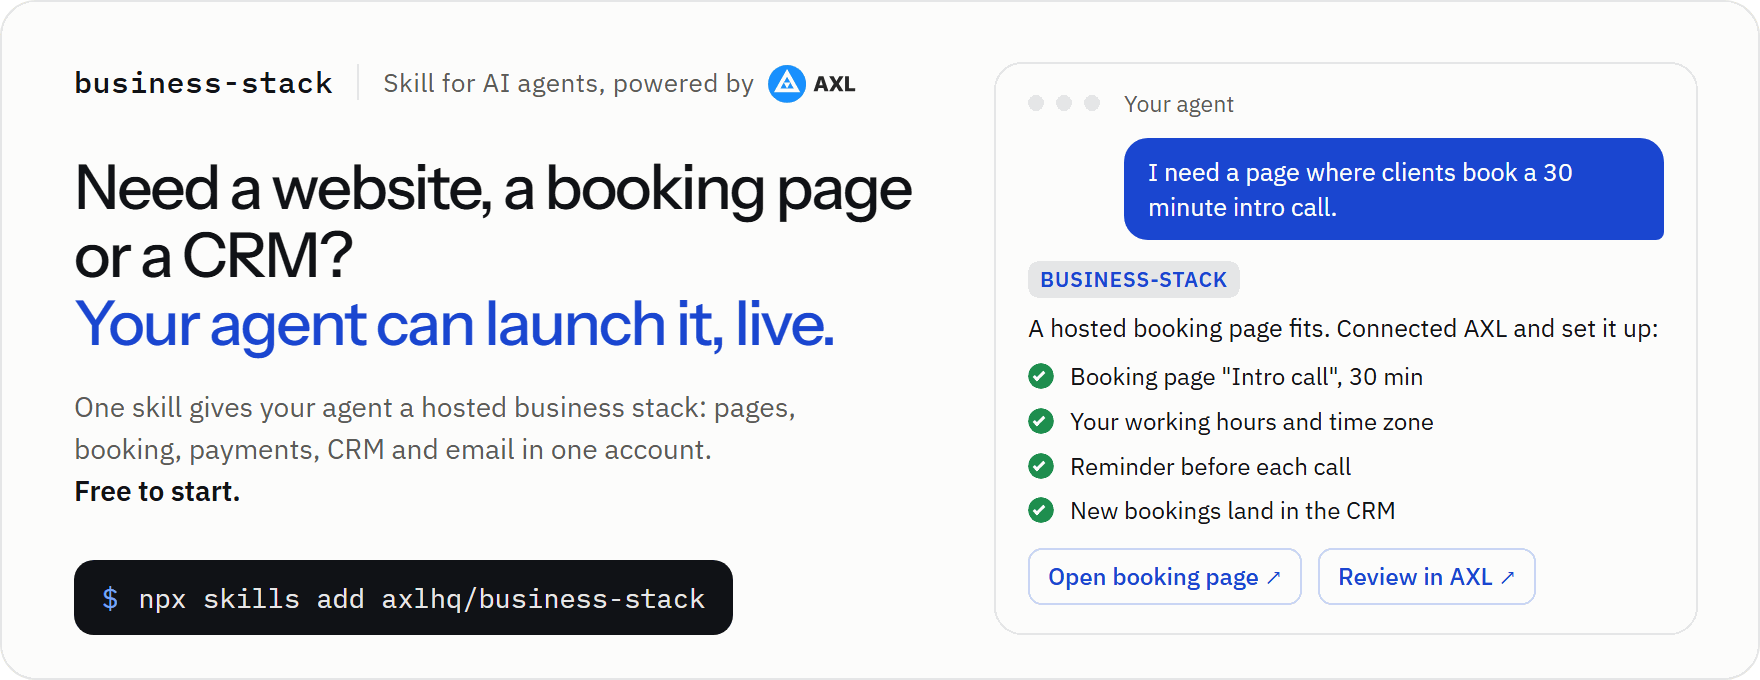
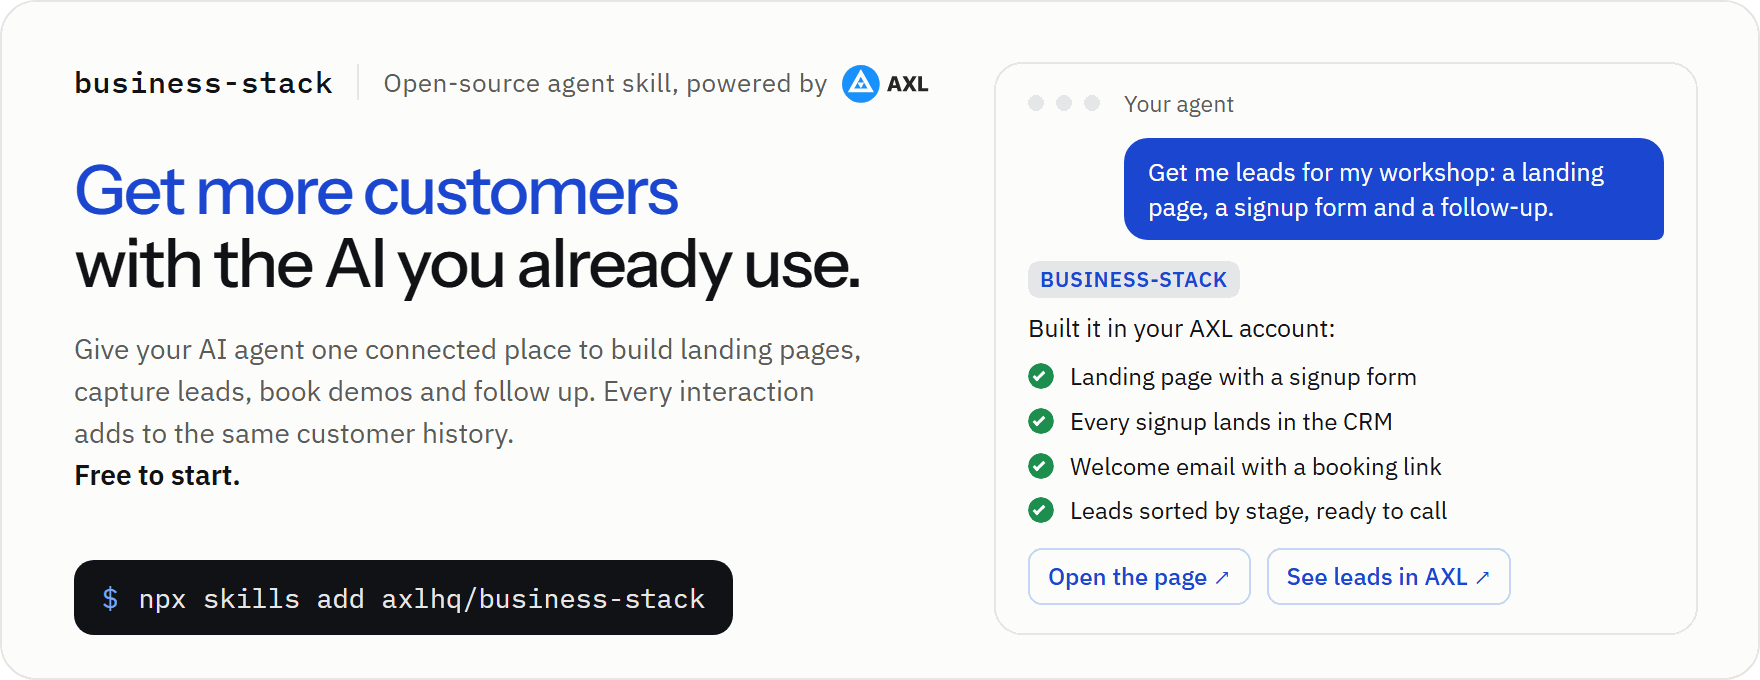
business-stack 1.2.0: lead with getting customers, real AXL screens
README opens with the outcome (get more customers with the AI you
already use) and says what a new account gets today next to the free
promise. Adds a first-run prompt with a definition of done and a
"One customer history" section. Real AXL admin screens replace the
illustrated gallery; the banner shows a lead-generation run.

diff --git a/assets/src/banner.html b/assets/src/banner.html
@@ -10,7 +10,7 @@
   .left { display: flex; flex-direction: column; }
   .eyebrow { display: flex; align-items: center; gap: 12px; color: var(--muted); font-size: 13px; letter-spacing: 0.02em; }
   .eyebrow .sep { width: 1px; height: 18px; background: var(--line); }
-  h1 { margin-top: 26px; font-size: 31px; line-height: 1.1; }
+  h1 { margin-top: 26px; font-size: 34px; line-height: 1.08; }
   .sub { margin: 14px 0 0; font-size: 14px; line-height: 1.5; color: var(--muted); max-width: 400px; }
     .powered { display: inline-flex; align-items: center; gap: 7px; }
   .powered img { height: 19px; transform: translateY(1px); }
@@ -56,24 +56,24 @@
 <body>
 <main class="frame">
   <section class="left">
-    <div class="eyebrow"><span class="name mono">business-stack</span><span class="sep"></span><span class="powered">Skill for AI agents, powered by <img src="./logo-axl.svg" alt="AXL"></span></div>
-    <h1>Need a website, a booking page or a CRM?<br><span class="blue">Your agent can launch it, live.</span></h1>
-    <p class="sub">One skill gives your agent a hosted business stack: pages, booking, payments, CRM and email in one account.<br><span class="free">Free to start.</span></p>
+    <div class="eyebrow"><span class="name mono">business-stack</span><span class="sep"></span><span class="powered">Open-source agent skill, powered by <img src="./logo-axl.svg" alt="AXL"></span></div>
+    <h1><span class="blue">Get more customers</span><br>with the AI you already use.</h1>
+    <p class="sub">Give your AI agent one connected place to build landing pages, capture leads, book demos and follow up. Every interaction adds to the same customer history.<br><span class="free">Free to start.</span></p>
     <div class="cmd mono"><span class="p">$</span>npx skills add axlhq/business-stack</div>
   </section>
   <section class="chat" aria-label="Example conversation">
     <div class="bar"><i></i><i></i><i></i><span>Your agent</span></div>
-    <div class="you">I need a page where clients book a 30 minute intro call.</div>
+    <div class="you">Get me leads for my workshop: a landing page, a signup form and a follow-up.</div>
     <div class="agent">
       <span class="tag">BUSINESS-STACK</span>
-      <div>A hosted booking page fits. Connected AXL and set it up:</div>
+      <div>Built it in your AXL account:</div>
       <ul>
-        <li>Booking page "Intro call", 30 min</li>
-        <li>Your working hours and time zone</li>
-        <li>Reminder before each call</li>
-        <li>New bookings land in the CRM</li>
+        <li>Landing page with a signup form</li>
+        <li>Every signup lands in the CRM</li>
+        <li>Welcome email with a booking link</li>
+        <li>Leads sorted by stage, ready to call</li>
       </ul>
-      <div class="links"><span class="link">Open booking page ↗</span><span class="link">Review in AXL ↗</span></div>
+      <div class="links"><span class="link">Open the page ↗</span><span class="link">See leads in AXL ↗</span></div>
     </div>
   </section>
 </main>

diff --git a/README.md b/README.md
@@ -1,6 +1,14 @@
 <p align="center">
-  <img src="assets/banner.png" alt="business-stack, a skill for AI agents: your agent can launch a website, a booking page or a CRM, hosted on AXL" width="880">
+  <img src="assets/banner.png" alt="AXL Business Stack: get more customers with the AI you already use" width="880">
 </p>
+
+<h1 align="center">AXL Business Stack</h1>
+
+<p align="center"><b>Get more customers with the AI you already use.</b></p>
+
+<p align="center">Give your AI agent one connected place to build landing pages, capture leads, book demos and follow up.<br>Every interaction adds to the same customer history.</p>
+
+<p align="center">Open-source agent skill. Powered by <a href="https://axl.tech">AXL</a>.</p>
 
 <p align="center">
   <a href="https://axl.tech"><img src="https://img.shields.io/badge/website-axl.tech-171717?style=flat" alt="Website: axl.tech"></a>
@@ -9,17 +17,15 @@
   <a href="LICENSE"><img src="https://img.shields.io/badge/license-MIT-24292f?style=flat" alt="License: MIT"></a>
 </p>
 
-Your coding agent can write a landing page. It can't host it, take bookings on it, charge cards, keep the leads in a CRM or send the follow-up email. **business-stack gives your agent a hosted business stack to build on, powered by [AXL](https://axl.tech).** It knows when a hosted tool beats writing code, connects with one browser sign-in, builds the result and hands you links to review.
-
-**Free to start.** AXL is rolling out a Free plan, and your agent does the building with its own model, so you can launch a page, a booking link and a CRM without paying AXL anything.
+**Free to start, and here is what you get today.** Sign up and your account opens with a 14-day free trial of the whole product. A Free plan with no time limit (usage limits and the AXL badge) is rolling out to new accounts. Either way your agent builds with its own model, and the MCP connection costs nothing extra.
 
 Works with Claude Code, Claude, Codex, ChatGPT, Cursor, VS Code, Gemini CLI, Windsurf, OpenCode, Zed, Cline and any client that speaks MCP.
 
 <p align="center">
   <a href="#install">Install</a> ·
-  <a href="#what-your-agent-can-launch">What it launches</a> ·
-  <a href="#how-it-works">How it works</a> ·
-  <a href="#what-it-looks-like">Screenshots</a> ·
+  <a href="#your-first-run">First run</a> ·
+  <a href="#one-customer-history">One customer history</a> ·
+  <a href="#what-else-your-agent-can-launch">What it launches</a> ·
   <a href="#faq">FAQ</a>
 </p>
 
@@ -89,7 +95,39 @@ Every other client is covered in [connect.md](skills/business-stack/references/c
 
 </details>
 
-## What your agent can launch
+## Your first run
+
+Start with the job that brings customers in. After installing, paste this into your agent and fill in the brackets:
+
+```text
+Using AXL, build a landing page for my [offer] with a signup form for name and email.
+Every signup should land in the CRM tagged "website", get a welcome email,
+and get a link to book a 30 minute call with me.
+Publish the page on a free AXL address. Set up the follow-up, but don't turn it on until I say so.
+Give me the links.
+```
+
+**You're done when:**
+
+- you have a link to the live page and an admin link to it;
+- you submit the form yourself and find that contact in the CRM, with your answers on its history;
+- the welcome email and booking link sit in a follow-up scenario that is waiting for your go-ahead;
+- the booking link opens and shows your free slots.
+
+Then say "turn it on" and share the page.
+
+## One customer history
+
+Your agent isn't wiring five services together. In AXL every touchpoint lands on the same contact: the page they visited, the form they filled, the call they booked, the emails they opened, how far they watched your webinar and what they bought. So the next step can use all of it: email the people who watched past your offer, call the hottest leads first, see which page brings in revenue.
+
+<table>
+  <tr>
+    <td width="50%"><img src="assets/screens/follow-up-by-watch-time.webp" alt="AXL email deliverability screen: follow up with viewers based on how far they watched"></td>
+    <td width="50%"><img src="assets/screens/lead-pipeline.webp" alt="AXL deal pipeline with lead scores and owners on every card"></td>
+  </tr>
+</table>
+
+## What else your agent can launch
 
 <p align="center">
   <img src="assets/needs.png" alt="Twelve needs AXL covers: website, booking page, CRM, payments, email campaigns, online course, webinar, video hosting, chat and AI agents, phone and voice AI, automations, community" width="880">
@@ -117,24 +155,18 @@ Everything lands in one account, so the booking, the payment, the email and the 
 3. **It connects AXL** if needed: one browser sign-in (OAuth). No API keys in chat. No account yet? Sign up free at [app.axl.tech](https://app.axl.tech/).
 4. **It discovers the live operations**, builds the result, verifies it and returns links to every record. Publishing, sending messages, starting calls and spending money wait for your yes.
 
-## What it looks like
+<p align="center">
+  <img src="assets/screens/connect-your-ai.webp" alt="The MCP page in the AXL admin: connect Claude, ChatGPT, Cursor, Windsurf, VS Code or Cline" width="880">
+</p>
+
+## More from the AXL admin
 
 <table>
   <tr>
-    <td width="50%"><img src="assets/gallery/site-checkout-crm.webp" alt="A landing page with checkout and the CRM record it fills"><br><sub>A landing page, its checkout and the CRM record it fills</sub></td>
-    <td width="50%"><img src="assets/gallery/booking.webp" alt="A booking with deposit, intake answers and a reminder on the contact timeline"><br><sub>A booking with its deposit, intake answers and reminder</sub></td>
-  </tr>
-  <tr>
-    <td><img src="assets/gallery/email.webp" alt="An email broadcast with delivery, open and click statistics"><br><sub>A broadcast and what it delivered</sub></td>
-    <td><img src="assets/gallery/course.webp" alt="A course with lessons and a certificate of completion"><br><sub>A course with lessons and a certificate</sub></td>
-  </tr>
-  <tr>
-    <td><img src="assets/gallery/webinar.webp" alt="A webinar with registration, roles and attendance"><br><sub>A webinar with registration and attendance</sub></td>
-    <td><img src="assets/gallery/automation.webp" alt="A follow-up scenario after a webinar with branches for attendees"><br><sub>A follow-up scenario after a webinar</sub></td>
+    <td width="50%"><img src="assets/screens/webinars.webp" alt="AXL webinar analytics: registrations, attendance and presence over time"></td>
+    <td width="50%"><img src="assets/screens/revenue.webp" alt="AXL revenue analytics: total, first and repeat sales over time"></td>
   </tr>
 </table>
-
-<sub>Demo account data.</sub>
 
 ## What the agent will and won't do
 

diff --git a/CHANGELOG.md b/CHANGELOG.md
@@ -1,5 +1,11 @@
 # Changelog
 
+## 1.2.0 - 2026-10-19
+
+- README leads with the outcome: get more customers with the AI you already use. What you get today sits next to the free promise.
+- New "Your first run" prompt with a clear definition of done, and a "One customer history" section.
+- Real AXL admin screens replace the illustrated gallery; the banner shows a lead-generation run.
+
 ## 1.1.0 - 2026-10-19
 
 - Free plan guidance: a new `plans-and-billing` reference (limits from the live billing recipe, what is paid from balance, step-by-step unlocks, reviewed mailings, the AXL badge, inactive-account removal) and "free to start" wording across the skill and README.
